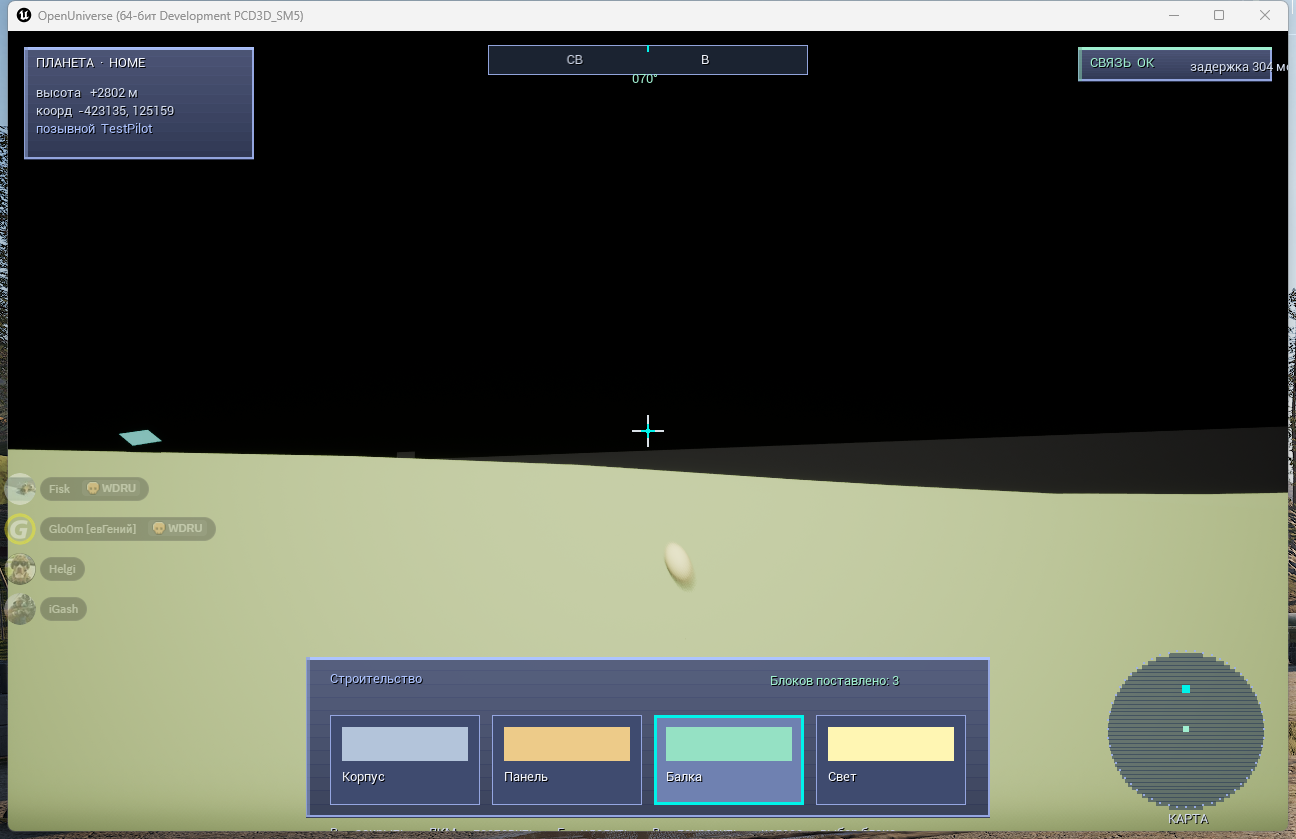
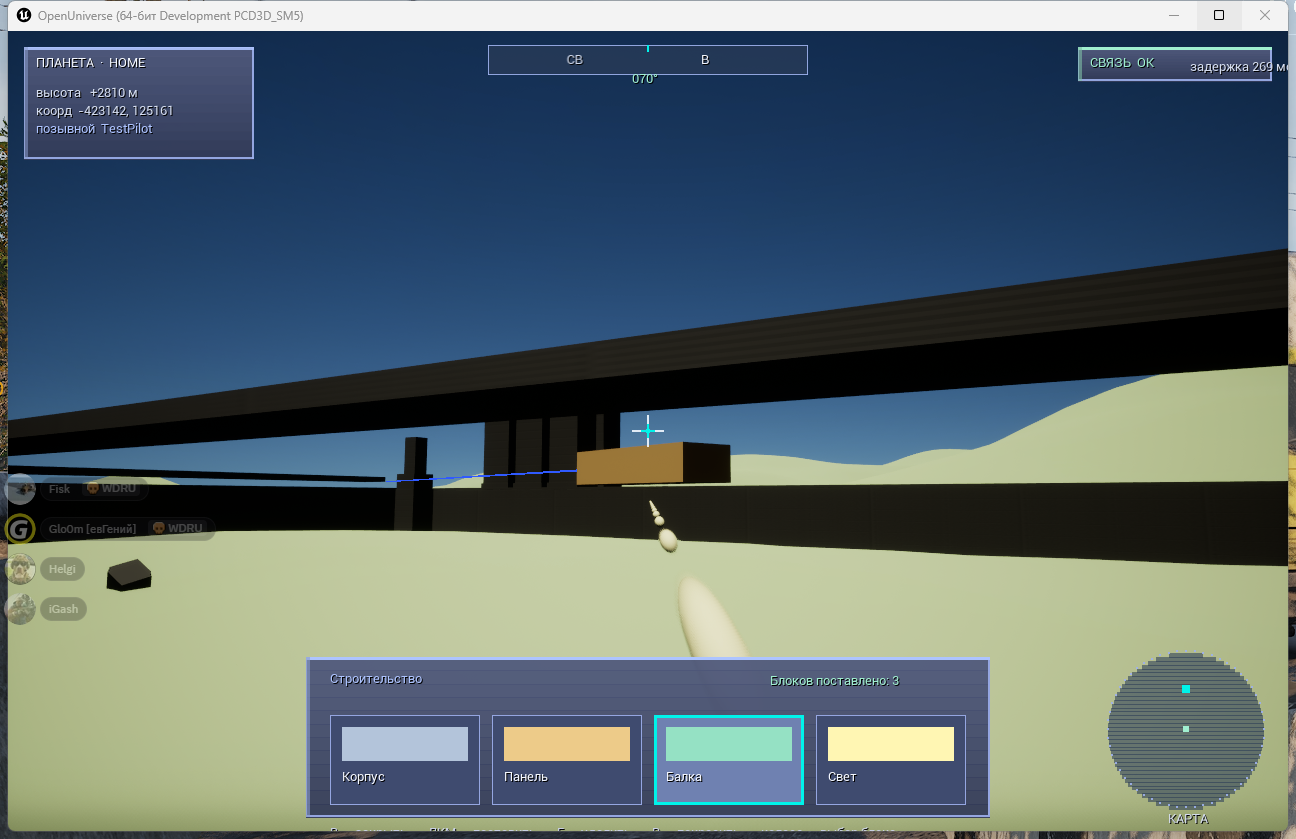
fix(collision,materials): solid base/editor blocks + panel material; v0.55.0 notes

diff --git a/i18n.js b/i18n.js
@@ -284,7 +284,7 @@ window.OU_I18N = {
     "rep.title": "Open Universe — отчёт о разработке",
     "rep.nav.home": "← На главную",
     "rep.h1": "Отчёт о разработке",
-    "rep.intro": "Что уже работает, с доказательствами: скриншотами движка, метриками и результатами тестов. Версия <b>0.54.0</b>.",
+    "rep.intro": "Что уже работает, с доказательствами: скриншотами движка, метриками и результатами тестов. Версия <b>0.55.0</b>.",
     "rep.m.tests": "тестов ядра (Rust)",
     "rep.m.crates": "модулей (крейтов)",
     "rep.m.progress": "план выполнен",
@@ -341,6 +341,7 @@ window.OU_I18N = {
     "rep.done49": "<b>База на ровном месте, крупнее, богаче интерфейс</b> — сервер и клиент ищут самое ровное место на всей суше (минимальный перепад высот в радиусе 150 м) и выбирают одно и то же бит-в-бит, поэтому база и игрок стоят на плато, а не на склоне. Посадочный комплекс вырос с 24 м до поля 180 м: единая ровная плита-платформа с бортом вниз к рельефу, светящаяся разметка, диспетчерская вышка с маяком, два ангара, топливный склад, терминалы и угловые маяки — всё на одном уровне с фундаментами. Игровой HUD получил «стеклянные» панели, компас, мини-карту, задержку связи и приборы корабля (скорость, щит, броня); меню и палитра строительства — в том же стиле.",
     "rep.done50": "<b>Копание грунта в игре</b> — главный столп. Левая кнопка мыши копает землю под прицелом; сервер авторитетно (как строительство) применяет воронку к своему рельефу, перепривязывает его всем сущностям, чтобы физика видела новую форму, и рассылает правку всем игрокам. Удар в то же место углубляет ту же яму, а не плодит новые. Формула воронки общая для сервера и клиента и сверена бит-в-бит (разница 0.00e+00), поэтому видимая земля точно совпадает с физикой; клиент перестраивает плотный участок у игрока, и яма видна сразу.",
     "rep.done51": "<b>Экономика в игре</b> — копание даёт руду, а на сервере работает живой рынок (движок сделок ou-economy подключён). Ордера на покупку и продажу исполняются против стакана по цене и времени; продажа сразу списывает товар (эскроу), и по каждой сделке кредиты переходят продавцу, а товар — покупателю, всё на целых числах, поэтому детерминировано. Каждому игроку при подключении — 1000 кредитов. Клавиша M открывает окно рынка и инвентаря (кредиты, трюм, лучшие заявки); клавиши 1 и 2 выставляют быстрый ордер на продажу/покупку руды. В HUD видны кредиты.",
+    "rep.done52": "<b>Твёрдые постройки и настоящие поверхности</b> — персонаж больше не проваливается через базу: у блоков базы и редактора раньше совсем не было коллизии, а капсула персонажа была пустой. Теперь блоки твёрдые (блокируют игрока и луч прицела), капсула твёрдая, а движение идёт свипом — персонаж скользит вдоль стен, а не проходит сквозь; на площадке можно стоять и прыгать. У базы появился настоящий материал M_BasePanel с процедурными панельными линиями, шероховатостью и цветом на блок — вместо однотонного серого; он применяется к базе и блокам редактора. Материал собирается скриптом и запекается в сборку.",
     "rep.sync": "Каркас клиента повторяет серверную логику: кинематика C++ за 1 с даёт <b>z = 23.101</b> против серверных <b>23.10086</b> — то же число. Подробности: <code>client/README.md</code>.",
     "rep.s2": "2. Скриншоты движка",
     "rep.shots.lead": "Все кадры ниже — реальный вывод трассировщика лучей из <code>server/crates/render</code>. Некоторые построены прямо из состояния симуляции.",
@@ -677,7 +678,7 @@ window.OU_I18N = {
     "rep.title": "Open Universe — development report",
     "rep.nav.home": "← Back to home",
     "rep.h1": "Development report",
-    "rep.intro": "What already works, with evidence: engine screenshots, metrics and test results. Version <b>0.54.0</b>.",
+    "rep.intro": "What already works, with evidence: engine screenshots, metrics and test results. Version <b>0.55.0</b>.",
     "rep.m.tests": "core tests (Rust)",
     "rep.m.crates": "modules (crates)",
     "rep.m.progress": "plan complete",
@@ -734,6 +735,7 @@ window.OU_I18N = {
     "rep.done49": "<b>Base on flat ground, much larger, richer HUD</b> - server and client search the whole landmass for the flattest spot (smallest height spread within 150 m) and pick the same one bit-for-bit, so the base and the player stand on a plateau, not a slope. The landing complex grew from 24 m to a 180 m field: one flat deck platform with a skirt down to the terrain, glowing markings, a control tower with a beacon, two hangars, a fuel depot, terminals and corner beacons - all on one level with foundations. The in-game HUD gained glass panels, a compass, a mini-map, a latency readout and ship instruments (speed, shield, armour); the menu and build palette share the same glass style.",
     "rep.done50": "<b>Terrain digging in game</b> - the headline pillar. Left mouse button digs the ground where you aim; the server is authoritative (like building), applies the crater to its own terrain, re-binds it to every entity so physics sees the new shape, and replicates the edit to all players. Striking the same spot deepens that hole instead of spawning new ones. The crater formula is shared server/client and compared bit-for-bit (difference 0.00e+00), so the visible ground matches the physics exactly; the client rebuilds the dense patch around the player so the hole shows up right away.",
     "rep.done51": "<b>Economy in game</b> - digging now yields ore, and a live market runs on the server (the ou-economy matching engine is wired in). Orders to buy and sell execute against the order book by price then time; a sell escrows the goods, and on each trade credits move to the seller and the goods to the buyer - all on integers, so it stays deterministic. Every player starts with 1000 credits. Press M for the market and inventory window (credits, cargo, best bid/ask); keys 1 and 2 place a quick sell/buy order for ore. The HUD shows your credits.",
+    "rep.done52": "<b>Solid buildings and real surfaces</b> - the player no longer falls through the base: base blocks and editor blocks had no collision at all, and the character capsule was empty. Blocks are now solid (they block the player and the aim ray), the capsule is solid, and movement sweeps so you slide along walls instead of passing through them; you can stand on the pad and jump. The base also got a proper material, M_BasePanel, with procedural panel lines, roughness and per-block colour, used by the base and the editor blocks - instead of flat grey. The material is generated from a script and cooked into the build.",
     "rep.sync": "The client skeleton mirrors the server logic: C++ kinematics over 1 s gives <b>z = 23.101</b> versus the server's <b>23.10086</b> — the same number. Details: <code>client/README.md</code>.",
     "rep.s2": "2. Engine screenshots",
     "rep.shots.lead": "Every frame below is real output from the ray tracer in <code>server/crates/render</code>. Some are built straight from simulation state.",

diff --git a/report.html b/report.html
@@ -6,7 +6,7 @@
   <title data-i18n="rep.title">Open Universe — development report</title>
   <meta name="description" content="Open Universe development report: what is done, engine screenshots, metrics and test results." />
   <link rel="icon" href="assets/blackhole.svg" type="image/svg+xml" />
-  <link rel="stylesheet" href="styles.css?v=0.54.0" />
+  <link rel="stylesheet" href="styles.css?v=0.55.0" />
   <style>
     .report { max-width: 1100px; margin: 0 auto; padding: 0 24px 80px; }
     .report h1 { font-size: clamp(2rem, 5vw, 3rem); margin: 40px 0 8px; letter-spacing: -1px;
@@ -51,13 +51,13 @@
 
   <main class="report">
     <h1 data-i18n="rep.h1">Development report</h1>
-    <p style="font-size:1.05rem" data-i18n="rep.intro">What already works, with evidence: engine screenshots, metrics and test results. Version <b id="ver">0.54.0</b>.</p>
+    <p style="font-size:1.05rem" data-i18n="rep.intro">What already works, with evidence: engine screenshots, metrics and test results. Version <b id="ver">0.55.0</b>.</p>
 
     <div class="meta">
       <div><b id="m-tests">223</b><span data-i18n="rep.m.tests">core tests (Rust)</span></div>
       <div><b id="m-crates">13</b><span data-i18n="rep.m.crates">modules (crates)</span></div>
       <div><b id="m-progress">73%</b><span data-i18n="rep.m.progress">plan complete</span></div>
-      <div><b id="m-version">v0.54.0</b><span data-i18n="rep.m.version">latest release</span></div>
+      <div><b id="m-version">v0.55.0</b><span data-i18n="rep.m.version">latest release</span></div>
     </div>
 
     <!-- ================= 1. What is done ================= -->
@@ -114,6 +114,7 @@
       <li data-i18n="rep.done49"><b>Base on flat ground, much larger, richer HUD</b> - server and client now search the whole landmass for the flattest spot (smallest height spread within 150 m) and pick the same one bit-for-bit, so the base and the player stand on a plateau, not a slope. The landing complex grew from 24 m to a 180 m field: one flat deck platform with a skirt down to the terrain, glowing markings, a control tower with a beacon, two hangars, a fuel depot, terminals and corner beacons, all on one level with foundations. The in-game HUD gained glass panels, a compass, a mini-map, a latency readout and ship instruments (speed, shield, armour); the menu and build palette share the same glass style.</li>
       <li data-i18n="rep.done50"><b>Terrain digging in game</b> - the headline pillar. Left mouse button digs the ground where you aim; the server is authoritative (like building), applies the crater to its own terrain, re-binds it to every entity so physics sees the new shape, and replicates the edit to all players. Striking the same spot deepens that hole instead of spawning new ones. The crater formula is shared server/client and compared bit-for-bit (difference 0.00e+00), so the visible ground matches the physics exactly; the client rebuilds the dense patch around the player so the hole shows up right away.</li>
       <li data-i18n="rep.done51"><b>Economy in game</b> - digging now yields ore, and a live market runs on the server (the ou-economy matching engine is wired in). Orders to buy and sell execute against the order book by price then time; a sell escrows the goods, and on each trade credits move to the seller and the goods to the buyer - all on integers, so it stays deterministic. Every player starts with 1000 credits. Press M for the market and inventory window (credits, cargo, best bid/ask); keys 1 and 2 place quick sell/buy order for ore. The HUD shows your credits.</li>
+      <li data-i18n="rep.done52"><b>Solid buildings and real surfaces</b> - the player no longer falls through the base: base blocks and editor blocks had no collision at all, and the character capsule was empty. Blocks are now solid (they block the player and the aim ray), the capsule is solid, and movement sweeps so you slide along walls instead of passing through them; you can stand on the pad and jump. The base also got a proper material, M_BasePanel, with procedural panel lines, roughness and per-block colour, used by the base and the editor blocks - instead of flat grey. The material is generated from a script and cooked into the build.</li>
     </ul>
 
     <p style="margin-top:14px" data-i18n="rep.sync">The client skeleton mirrors the server logic: C++ kinematics over 1 s gives <b>z = 23.101</b> versus the server's <b>23.10086</b> — the same number. Details: <code>client/README.md</code>.</p>
@@ -314,7 +315,7 @@ $ cargo run -p ou-render --release --bin ou-netrender -- 127.0.0.1:7777 8 4
     </div>
   </footer>
 
-  <script src="i18n.js?v=0.54.0"></script>
+  <script src="i18n.js?v=0.55.0"></script>
   <script>
     (function () {
       "use strict";

diff --git a/index.html b/index.html
@@ -6,7 +6,7 @@
   <title data-i18n="page.title">Open Universe — an open-space MMO sandbox</title>
   <meta name="description" content="Open Universe — one living universe, voxel building, a player-driven economy and programmable constructions. A development plan with live progress." />
   <link rel="icon" href="assets/blackhole.svg" type="image/svg+xml" />
-  <link rel="stylesheet" href="styles.css?v=0.54.0" />
+  <link rel="stylesheet" href="styles.css?v=0.55.0" />
 </head>
 <body>
 
@@ -296,7 +296,7 @@ VWAP = 26 · Trades in the log: 2</code></pre>
       <div class="download-grid">
         <div class="panel dl-card">
           <div class="dl-head">
-            <span class="dl-ver" id="dl-version">v0.54.0</span>
+            <span class="dl-ver" id="dl-version">v0.55.0</span>
             <span class="hero-badge" style="font-size:.72rem"><span class="dot"></span> <span data-i18n="dl.latestBadge">Latest version</span></span>
           </div>
           <h3 data-i18n="dl.cardTitle">Open Universe launcher</h3>
@@ -428,8 +428,8 @@ powershell -File tools/test-client.ps1</code></pre>
     <span aria-hidden="true">❤</span> <span data-i18n="sponsor.fab">Become a sponsor</span>
   </a>
 
-  <script src="i18n.js?v=0.54.0"></script>
-  <script src="data.js?v=0.54.0"></script>
-  <script src="app.js?v=0.54.0"></script>
+  <script src="i18n.js?v=0.55.0"></script>
+  <script src="data.js?v=0.55.0"></script>
+  <script src="app.js?v=0.55.0"></script>
 </body>
 </html>

diff --git a/tools/make-materials.py b/tools/make-materials.py
@@ -1,0 +1,116 @@
+# -*- coding: utf-8 -*-
+"""Генератор материалов базы Open Universe для UE5.
+
+Создаёт /Game/Materials/M_BasePanel — параметрический материал для построек
+базы: поверхность с панельными линиями (процедурная сетка по мировым
+координатам) и параметром цвета `Color`, который код выставляет каждому блоку.
+
+Материал собран из узлов MaterialExpression (без внешних текстур), поэтому
+работает сразу после сборки — как и остальной проект.
+
+Запуск (см. tools/make-materials.ps1):
+  UnrealEditor-Cmd.exe <project> -run=pythonscript -script="tools/make-materials.py"
+"""
+
+import unreal
+
+MAT_PATH = "/Game/Materials"
+MAT_NAME = "M_BasePanel"
+MAT_FULL = MAT_PATH + "/" + MAT_NAME
+
+
+def log(msg):
+    unreal.log("[OpenUniverse] " + msg)
+
+
+def make_material():
+    mel = unreal.MaterialEditingLibrary
+    if not mel:
+        log("нет MaterialEditingLibrary — пропускаю материалы")
+        return
+
+    if unreal.EditorAssetLibrary.does_asset_exist(MAT_FULL):
+        unreal.EditorAssetLibrary.delete_asset(MAT_FULL)
+
+    asset_tools = unreal.AssetToolsHelpers.get_asset_tools()
+    mat = asset_tools.create_asset(MAT_NAME, MAT_PATH, unreal.Material, None)
+    if mat is None:
+        log("не создать материал")
+        return
+
+    def expr(cls, x, y):
+        return mel.create_material_expression(mat, cls, x, y)
+
+    # Цвет блока (код выставляет его параметром).
+    color = expr(unreal.MaterialExpressionVectorParameter, -900, 0)
+    color.set_editor_property("parameter_name", "Color")
+    color.set_editor_property("default_value", unreal.LinearColor(0.4, 0.45, 0.5, 1.0))
+
+    # Панельные линии: WorldPosition.xy * 0.0033 → frac → «ромб» по панели.
+    wp = expr(unreal.MaterialExpressionWorldPosition, -1300, 300)
+    mask = expr(unreal.MaterialExpressionComponentMask, -1120, 300)
+    mask.set_editor_property("r", True)
+    mask.set_editor_property("g", True)
+    mask.set_editor_property("b", False)
+    mask.set_editor_property("a", False)
+    mel.connect_material_expressions(wp, "", mask, "")
+
+    mul = expr(unreal.MaterialExpressionMultiply, -940, 300)
+    mul.set_editor_property("const_b", 0.0033)
+    mel.connect_material_expressions(mask, "", mul, "A")
+
+    frac = expr(unreal.MaterialExpressionFrac, -780, 300)
+    mel.connect_material_expressions(mul, "", frac, "")
+
+    twice = expr(unreal.MaterialExpressionMultiply, -620, 300)
+    twice.set_editor_property("const_b", 2.0)
+    mel.connect_material_expressions(frac, "", twice, "A")
+
+    one_minus = expr(unreal.MaterialExpressionSubtract, -460, 300)
+    one_minus.set_editor_property("const_b", 1.0)
+    mel.connect_material_expressions(twice, "", one_minus, "A")
+
+    absn = expr(unreal.MaterialExpressionAbs, -300, 300)
+    mel.connect_material_expressions(one_minus, "", absn, "")
+
+    # seam ∈ [0,1]: 1 в центре панели, 0 на швах.
+    seam = expr(unreal.MaterialExpressionSubtract, -140, 300)
+    seam.set_editor_property("const_b", 1.0)
+    mel.connect_material_expressions(absn, "", seam, "A")
+
+    # Затемнение: brightness = 0.65 + 0.35 * seam.
+    bright_mul = expr(unreal.MaterialExpressionMultiply, 20, 300)
+    bright_mul.set_editor_property("const_b", 0.35)
+    mel.connect_material_expressions(seam, "", bright_mul, "A")
+
+    bright = expr(unreal.MaterialExpressionAdd, 180, 300)
+    bright.set_editor_property("const_b", 0.65)
+    mel.connect_material_expressions(bright_mul, "", bright, "A")
+
+    # BaseColor = Color * brightness (Color — вектор, brightness — скаляр).
+    out_col = expr(unreal.MaterialExpressionMultiply, 360, 120)
+    mel.connect_material_expressions(color, "", out_col, "A")
+    mel.connect_material_expressions(bright, "", out_col, "B")
+    mel.connect_material_property(out_col, "", unreal.MaterialProperty.MP_BASE_COLOR)
+
+    # Шероховатость и металличность — параметрами.
+    rough = expr(unreal.MaterialExpressionScalarParameter, 360, 420)
+    rough.set_editor_property("parameter_name", "Roughness")
+    rough.set_editor_property("default_value", 0.7)
+    mel.connect_material_property(rough, "", unreal.MaterialProperty.MP_ROUGHNESS)
+
+    metal = expr(unreal.MaterialExpressionScalarParameter, 360, 560)
+    metal.set_editor_property("parameter_name", "Metallic")
+    metal.set_editor_property("default_value", 0.1)
+    mel.connect_material_property(metal, "", unreal.MaterialProperty.MP_METALLIC)
+
+    mel.recompile_material(mat)
+    unreal.EditorAssetLibrary.save_asset(MAT_FULL)
+    log("материал создан: " + MAT_FULL)
+
+
+def main():
+    make_material()
+
+
+main()

diff --git a/client/Source/OpenUniverse/OUSurfaceBase.cpp b/client/Source/OpenUniverse/OUSurfaceBase.cpp
@@ -48,6 +48,14 @@ AOUSurfaceBase::AOUSurfaceBase()
 	{
 		BaseMaterial = Mat.Object;
 	}
+	// Собственный материал построек (панельные линии) — если сгенерирован
+	// (tools/make-materials.ps1). Иначе остаётся базовый материал движка.
+	static ConstructorHelpers::FObjectFinder<UMaterialInterface> Panel(
+		TEXT("/Game/Materials/M_BasePanel.M_BasePanel"));
+	if (Panel.Succeeded())
+	{
+		BaseMaterial = Panel.Object;
+	}
 }
 
 void AOUSurfaceBase::BeginPlay()
@@ -130,7 +138,13 @@ void AOUSurfaceBase::AddBlock(const FVector& Offset, const FVector& Size, const 
 	Comp->SetRelativeLocation(Offset);
 	// Базовый куб движка — 100 см; масштаб задаём относительно него.
 	Comp->SetRelativeScale3D(Size / 100.f);
-	Comp->SetCollisionEnabled(ECollisionEnabled::NoCollision);
+	// Блок — твёрдый: персонаж не должен «проваливаться» сквозь него. Блокируем
+	// и мир (капсула персонажа — Pawn), и луч прицела (Visibility).
+	Comp->SetCollisionEnabled(ECollisionEnabled::QueryAndPhysics);
+	Comp->SetCollisionObjectType(ECC_WorldStatic);
+	Comp->SetCollisionResponseToAllChannels(ECR_Block);
+	Comp->SetMobility(EComponentMobility::Movable);
+	Comp->SetGenerateOverlapEvents(false);
 	if (BaseMaterial)
 	{
 		Comp->SetMaterial(0, BaseMaterial);
@@ -158,15 +172,15 @@ void AOUSurfaceBase::BuildBase()
 	}
 
 	// --- Палитра комплекса: «техно» серый-синий, тёплые акценты, техцвет ---
-	const FLinearColor Concrete(0.20f, 0.22f, 0.26f);
-	const FLinearColor Deck(0.15f, 0.17f, 0.21f);
-	const FLinearColor Steel(0.34f, 0.37f, 0.43f);
-	const FLinearColor Dark(0.10f, 0.11f, 0.14f);
-	const FLinearColor Glass(0.10f, 0.55f, 0.95f);
-	const FLinearColor Warm(1.00f, 0.55f, 0.10f);
-	const FLinearColor Fuel(0.85f, 0.70f, 0.20f);
-	const FLinearColor Cyan(0.00f, 0.90f, 0.82f);
-	const FLinearColor Strip(0.20f, 0.85f, 1.00f);
+	const FLinearColor Concrete(0.42f, 0.45f, 0.50f);
+	const FLinearColor Deck(0.34f, 0.37f, 0.42f);
+	const FLinearColor Steel(0.56f, 0.60f, 0.66f);
+	const FLinearColor Dark(0.18f, 0.19f, 0.22f);
+	const FLinearColor Glass(0.16f, 0.62f, 0.96f);
+	const FLinearColor Warm(1.00f, 0.58f, 0.14f);
+	const FLinearColor Fuel(0.88f, 0.74f, 0.24f);
+	const FLinearColor Cyan(0.10f, 0.92f, 0.86f);
+	const FLinearColor Strip(0.30f, 0.88f, 1.00f);
 
 	// --- Посадочное поле: РОВНАЯ плита-платформа с бортом вниз к земле ---
 	// Место появления — самое ровное на планете, но перепад в десятки метров

diff --git a/client/Source/OpenUniverse/OUCharacterPawn.cpp b/client/Source/OpenUniverse/OUCharacterPawn.cpp
@@ -38,7 +38,14 @@ AOUCharacterPawn::AOUCharacterPawn()
 
 	Capsule = CreateDefaultSubobject<UCapsuleComponent>(TEXT("Capsule"));
 	Capsule->InitCapsuleSize(CapsuleRadius, CapsuleHalfHeight);
-	Capsule->SetCollisionEnabled(ECollisionEnabled::NoCollision);
+	// Капсула — твёрдая: персонаж не проходит сквозь постройки и стоит на них.
+	// Рельеф планеты ведёт серверная формула (аналитическая привязка ниже),
+	// но здания базы и блоки редактора — обычные меши, и без коллизии игрок
+	// «проваливается» через них. Включаем блокировку и свипаем движение.
+	Capsule->SetCollisionEnabled(ECollisionEnabled::QueryOnly);
+	Capsule->SetCollisionObjectType(ECC_Pawn);
+	Capsule->SetCollisionResponseToAllChannels(ECR_Block);
+	Capsule->SetGenerateOverlapEvents(false);
 	SetRootComponent(Capsule);
 
 	// Базовые меши движка и материал (параметрический цвет).
@@ -999,8 +1006,33 @@ void AOUCharacterPawn::Tick(float DeltaSeconds)
 	}
 	bJumpQueued = false;
 
-	// Шаг позиции.
+	// Шаг позиции со свипом: персонаж не должен проходить сквозь постройки и
+	// блоки редактора (у них есть коллизия). По рельефу ниже привязываемся
+	// аналитически, но здания ловим обычным свипом UE.
 	FVector NewPos = Pos + Velocity * DeltaSeconds;
+	{
+		FHitResult Hit;
+		FCollisionQueryParams Params(SCENE_QUERY_STAT(OUCharMove), false, this);
+		const bool bHit = World->SweepSingleByChannel(
+			Hit, Pos, NewPos, FQuat::Identity, ECC_Pawn,
+			FCollisionShape::MakeCapsule(CapsuleRadius, CapsuleHalfHeight), Params);
+		if (bHit)
+		{
+			NewPos = Pos + (NewPos - Pos) * Hit.Time;
+			// Гасим скорость в направлении нормали стены (скользим вдоль неё).
+			const FVector N = Hit.Normal;
+			const double VN = FVector::DotProduct(Velocity, N);
+			if (VN < 0.0)
+			{
+				Velocity -= N * VN;
+			}
+			// Стоим на полу (нормаль вверх): можно прыгать.
+			if (FVector::DotProduct(N, Up) > 0.5)
+			{
+				bGrounded = true;
+			}
+		}
+	}
 
 	// Привязка к рельефу: не проваливаемся под поверхность.
 	const FVector Dir = NewPos.GetSafeNormal();

diff --git a/client/Source/OpenUniverse/OUPlayerMenuController.cpp b/client/Source/OpenUniverse/OUPlayerMenuController.cpp
@@ -1034,7 +1034,7 @@ void AOUPlayerMenuController::DrawGameHud(UCanvas* InCanvas)
 		const bool bInShip = ShipPawn != nullptr;
 		const FString Hint = bInShip
 			? TEXT("Мышь — обзор   ·   W/S — тяга   ·   A/D — стрейф   ·   Пробел/Ctrl — вверх/вниз   ·   ЛКМ — огонь   ·   F — выход")
-			: TEXT("Мышь — обзор   ·   W/A/S/D — ходьба   ·   Пробел — прыжок   ·   ЛКМ — копать   ·   B — строительство   ·   Alt — курсор");
+			: TEXT("Мышь — обзор   ·   W/A/S/D — ходьба   ·   ЛКМ — копать   ·   M — рынок   ·   B — строительство");
 		DrawText(InCanvas, Tiny, Hint, FVector2D(18, H - 22), Dim);
 	}
 }

diff --git a/client/Source/OpenUniverse/OUBuildBlock.cpp b/client/Source/OpenUniverse/OUBuildBlock.cpp
@@ -30,6 +30,13 @@ AOUBuildBlock::AOUBuildBlock()
 	{
 		BlockMesh->SetMaterial(0, Mat.Object);
 	}
+	// Тот же материал построек, что у базы (панельные линии), если сгенерирован.
+	static ConstructorHelpers::FObjectFinder<UMaterialInterface> Panel(
+		TEXT("/Game/Materials/M_BasePanel.M_BasePanel"));
+	if (Panel.Succeeded())
+	{
+		BlockMesh->SetMaterial(0, Panel.Object);
+	}
 	ApplyLook();
 }
 

diff --git a/CHANGELOG.md b/CHANGELOG.md
@@ -3,6 +3,28 @@
 Все значимые изменения проекта. Формат близок к [Keep a Changelog](https://keepachangelog.com/ru/1.1.0/),
 версии — [SemVer](https://semver.org/lang/ru/).
 
+## [0.55.0] — 2026-11-13
+
+Постройки стали твёрдыми, а у базы появились настоящие поверхности.
+
+### Исправлено
+- **Персонаж больше не проваливается через здания.** У блоков базы и блоков
+  редактора раньше **не было коллизии** вовсе, а капсула персонажа была
+  «пустой». Теперь блоки — твёрдые (блокируют персонажа и луч прицела), капсула
+  твёрдая, а движение идёт **свипом**: персонаж скользит вдоль стен, а не
+  проходит сквозь них. На площадке работает прыжок, и на ней можно стоять.
+
+### Добавлено
+- **Материал построек** `M_BasePanel`: панельные линии (процедурная сетка по
+  мировому положению), параметр цвета, шероховатость и металличность. Применён
+  к базе и к блокам редактора — вместо однотонного серого.
+- **Генератор материалов** `tools/make-materials.py` (обёртка
+  `tools/make-materials.ps1`): собирает материал из узлов, без внешних текстур.
+- Материал **запекается в установщик** (`DirectoriesToAlwaysCook`).
+
+### Изменено
+- Палитра построек осветлена, чтобы текстура и цвет читались.
+
 ## [0.54.0] — 2026-11-13
 
 Экономика в игре: копание даёт сырьё, живой рынок и кредиты.
